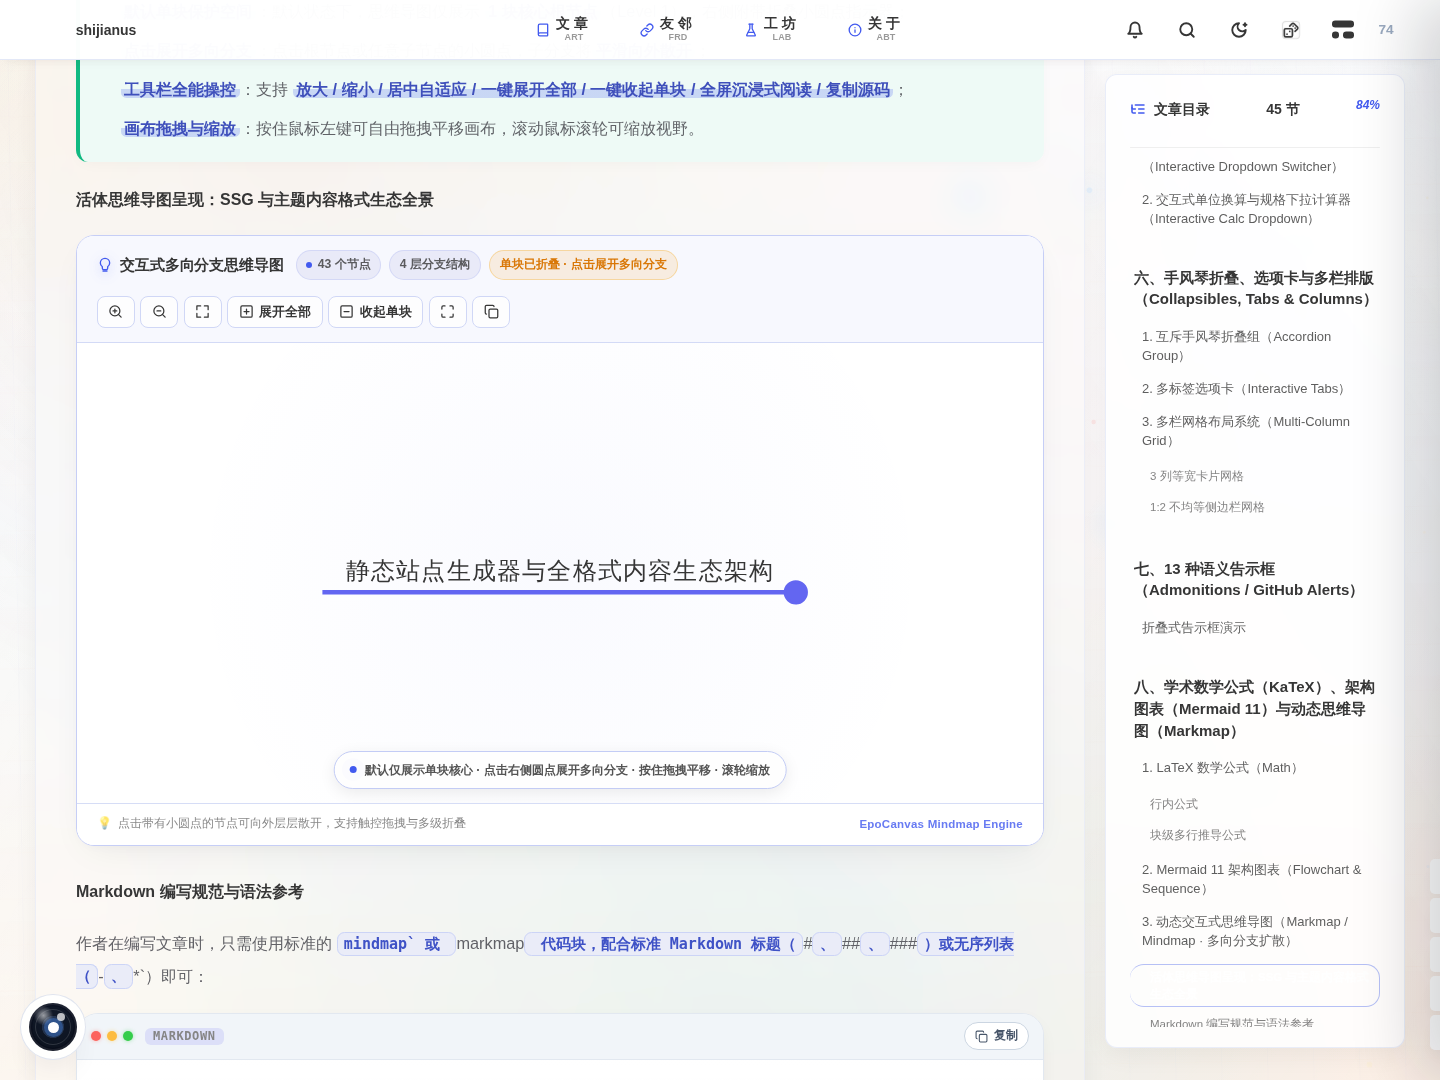
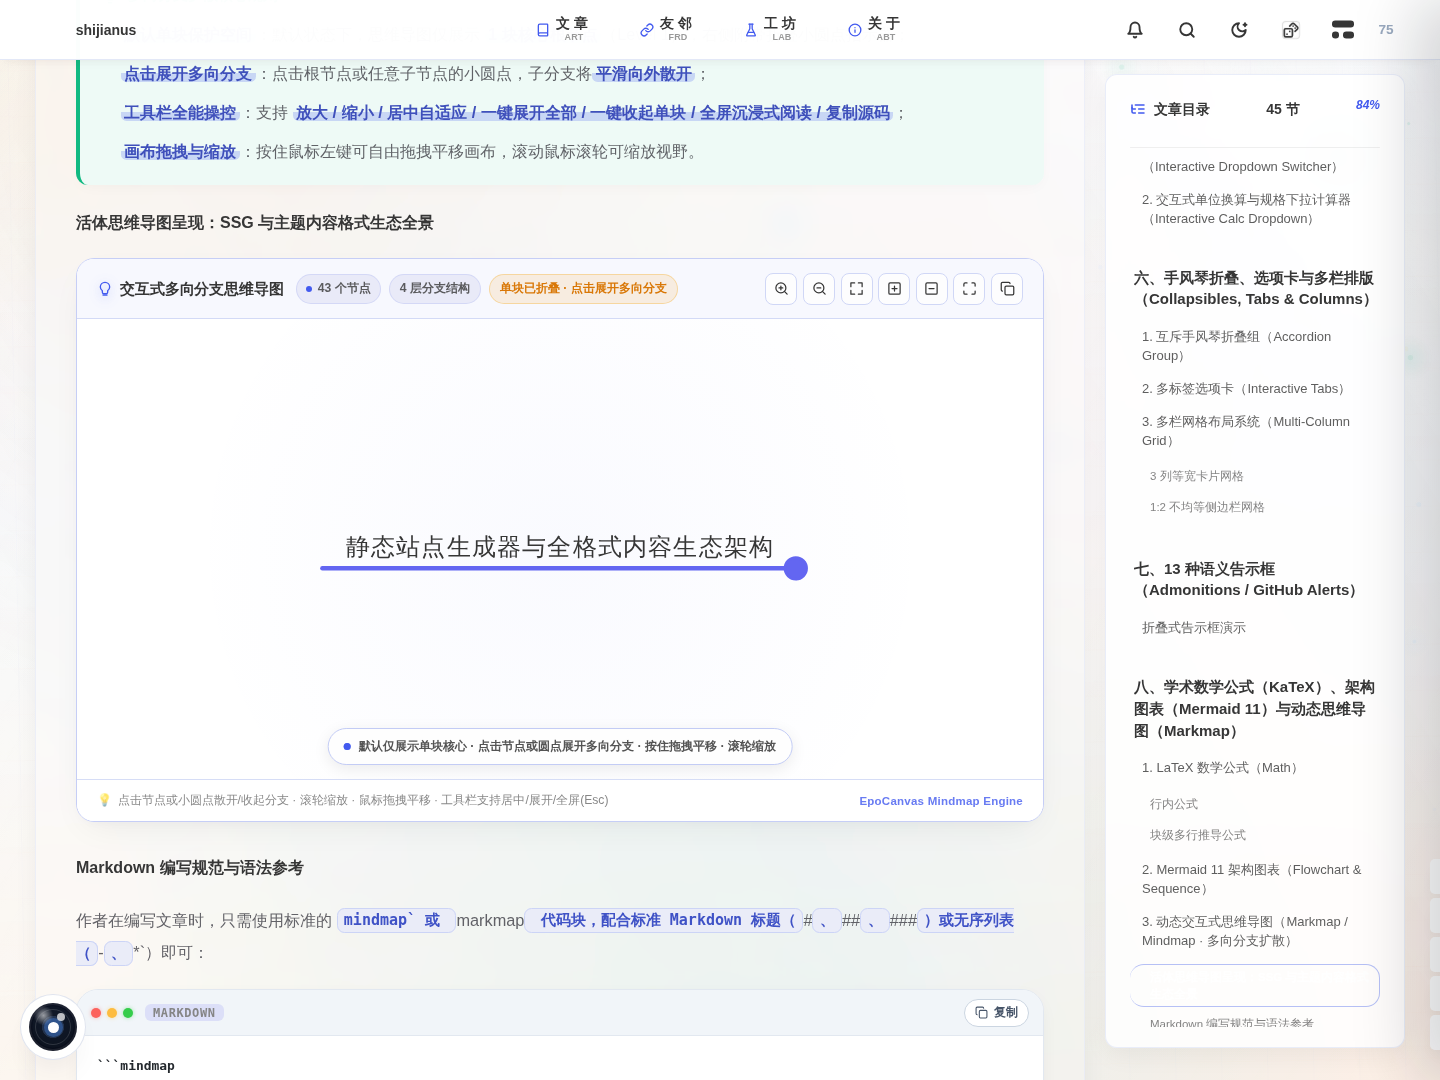
Update Mindmap

diff --git a/src/styles/markdown-enhancements.css b/src/styles/markdown-enhancements.css
@@ -3148,9 +3148,9 @@ meter.article-meter {
   display: inline-flex;
   align-items: center;
   justify-content: center;
-  gap: 0.35rem;
+  width: 32px;
   height: 32px;
-  padding: 0 0.65rem;
+  padding: 0;
   border-radius: 8px;
   font-size: 0.8rem;
   font-weight: 600;
@@ -3203,11 +3203,24 @@ meter.article-meter {
   display: block;
 }
 
-/* Markmap SVG Styling */
+/* Markmap SVG Styling & Enhanced Sensitive Pointer Hit Area */
 .mindmap-svg .markmap-node {
-  cursor: pointer;
+  cursor: pointer !important;
+  pointer-events: all !important;
   user-select: none;
-  transition: opacity 0.2s ease;
+  transition: opacity 0.15s ease;
+}
+
+.mindmap-svg .markmap-node line {
+  stroke-linecap: round;
+  cursor: pointer !important;
+  pointer-events: all !important;
+  transition: stroke-width 0.2s cubic-bezier(0.16, 1, 0.3, 1), stroke 0.2s ease, filter 0.2s ease;
+}
+
+.mindmap-svg .markmap-node:hover line {
+  stroke-width: 3.6px !important;
+  filter: drop-shadow(0 0 6px currentColor);
 }
 
 .mindmap-svg .markmap-node text {
@@ -3215,7 +3228,9 @@ meter.article-meter {
   font-size: 13.5px;
   fill: var(--font-color);
   font-weight: 500;
-  transition: fill 0.2s ease;
+  cursor: pointer !important;
+  pointer-events: all !important;
+  transition: fill 0.15s ease;
 }
 
 :root[data-theme='dark'] .mindmap-svg .markmap-node text {
@@ -3227,13 +3242,29 @@ meter.article-meter {
 }
 
 .mindmap-svg .markmap-circle {
+  cursor: pointer !important;
+  pointer-events: all !important;
+  stroke-width: 6px !important;
   transition: r 0.2s cubic-bezier(0.34, 1.56, 0.64, 1), stroke-width 0.2s ease, filter 0.2s ease;
-  cursor: pointer;
 }
 
 .mindmap-svg .markmap-circle:hover {
-  r: 7px;
-  filter: drop-shadow(0 0 6px color-mix(in srgb, var(--theme-main) 70%, transparent));
+  r: 7.5px !important;
+  stroke-width: 8px !important;
+  filter: drop-shadow(0 0 8px currentColor);
+}
+
+.mindmap-svg .markmap-node.markmap-fold .markmap-circle {
+  animation: markmap-circle-halo 2.4s infinite ease-in-out;
+}
+
+@keyframes markmap-circle-halo {
+  0%, 100% {
+    stroke-opacity: 0.35;
+  }
+  50% {
+    stroke-opacity: 0.85;
+  }
 }
 
 .mindmap-svg .markmap-link {
@@ -3246,10 +3277,28 @@ meter.article-meter {
   font-size: 13.5px;
   line-height: 1.4;
   color: var(--font-color);
+  cursor: pointer !important;
+  pointer-events: all !important;
+  user-select: none;
+  transition: color 0.15s ease;
+}
+
+.mindmap-svg .markmap-foreign div {
+  cursor: pointer !important;
+  pointer-events: all !important;
+}
+
+.mindmap-svg .markmap-node:hover .markmap-foreign {
+  color: var(--theme-main) !important;
+  font-weight: 600;
 }
 
 :root[data-theme='dark'] .mindmap-svg .markmap-foreign {
   color: #f1f5f9;
+}
+
+:root[data-theme='dark'] .mindmap-svg .markmap-node:hover .markmap-foreign {
+  color: #a5b4fc !important;
 }
 
 .mindmap-svg .markmap-foreign strong {
@@ -3342,19 +3391,36 @@ meter.article-meter {
   color: color-mix(in srgb, var(--theme-main) 80%, transparent);
 }
 
-/* Fullscreen Mode */
+/* Fullscreen Mode (positioned below the sticky top header) */
 .mindmap-wrapper.is-fullscreen {
   position: fixed !important;
-  inset: 0 !important;
+  top: var(--site-header-height, 60px) !important;
+  left: 0 !important;
+  right: 0 !important;
+  bottom: 0 !important;
   width: 100vw !important;
-  height: 100vh !important;
+  height: calc(100vh - var(--site-header-height, 60px)) !important;
   max-width: 100vw !important;
   margin: 0 !important;
   border-radius: 0 !important;
   border: none !important;
-  z-index: 99999 !important;
+  border-top: 1px solid color-mix(in srgb, var(--theme-main) 18%, var(--card-border)) !important;
+  z-index: 85 !important;
   display: flex !important;
   flex-direction: column !important;
+  box-shadow: 0 20px 60px rgba(0, 0, 0, 0.4) !important;
+  animation: mindmap-fullscreen-in 0.22s cubic-bezier(0.16, 1, 0.3, 1) !important;
+}
+
+@keyframes mindmap-fullscreen-in {
+  from {
+    opacity: 0;
+    transform: scale(0.99);
+  }
+  to {
+    opacity: 1;
+    transform: scale(1);
+  }
 }
 
 .mindmap-wrapper.is-fullscreen .mindmap-canvas-container {
